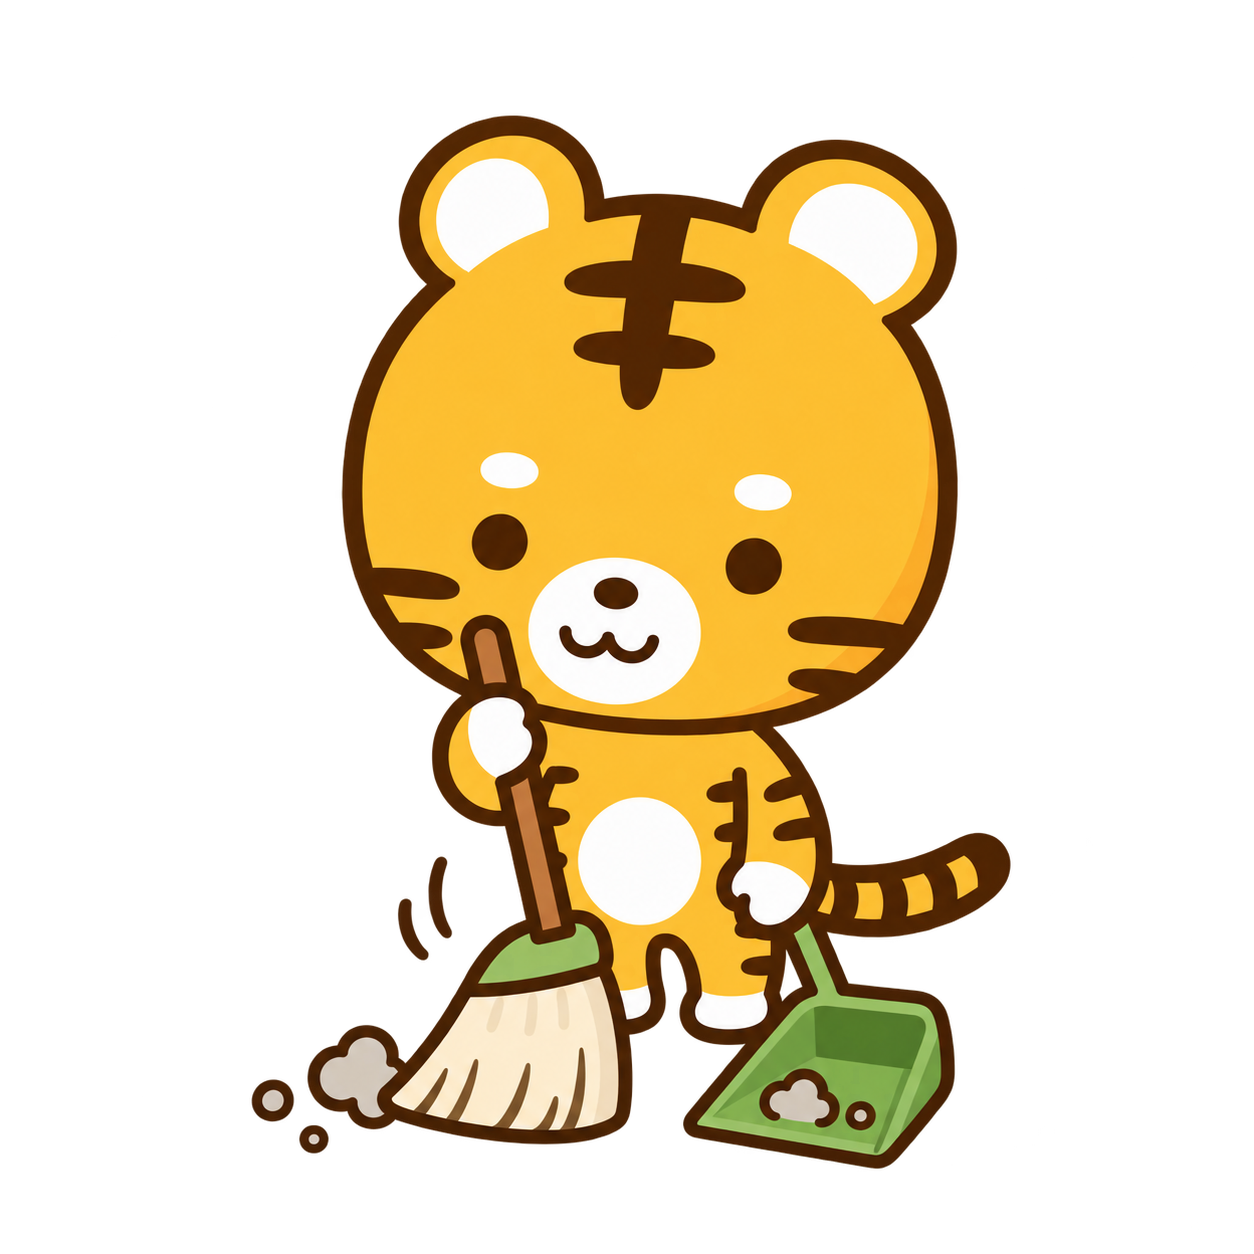
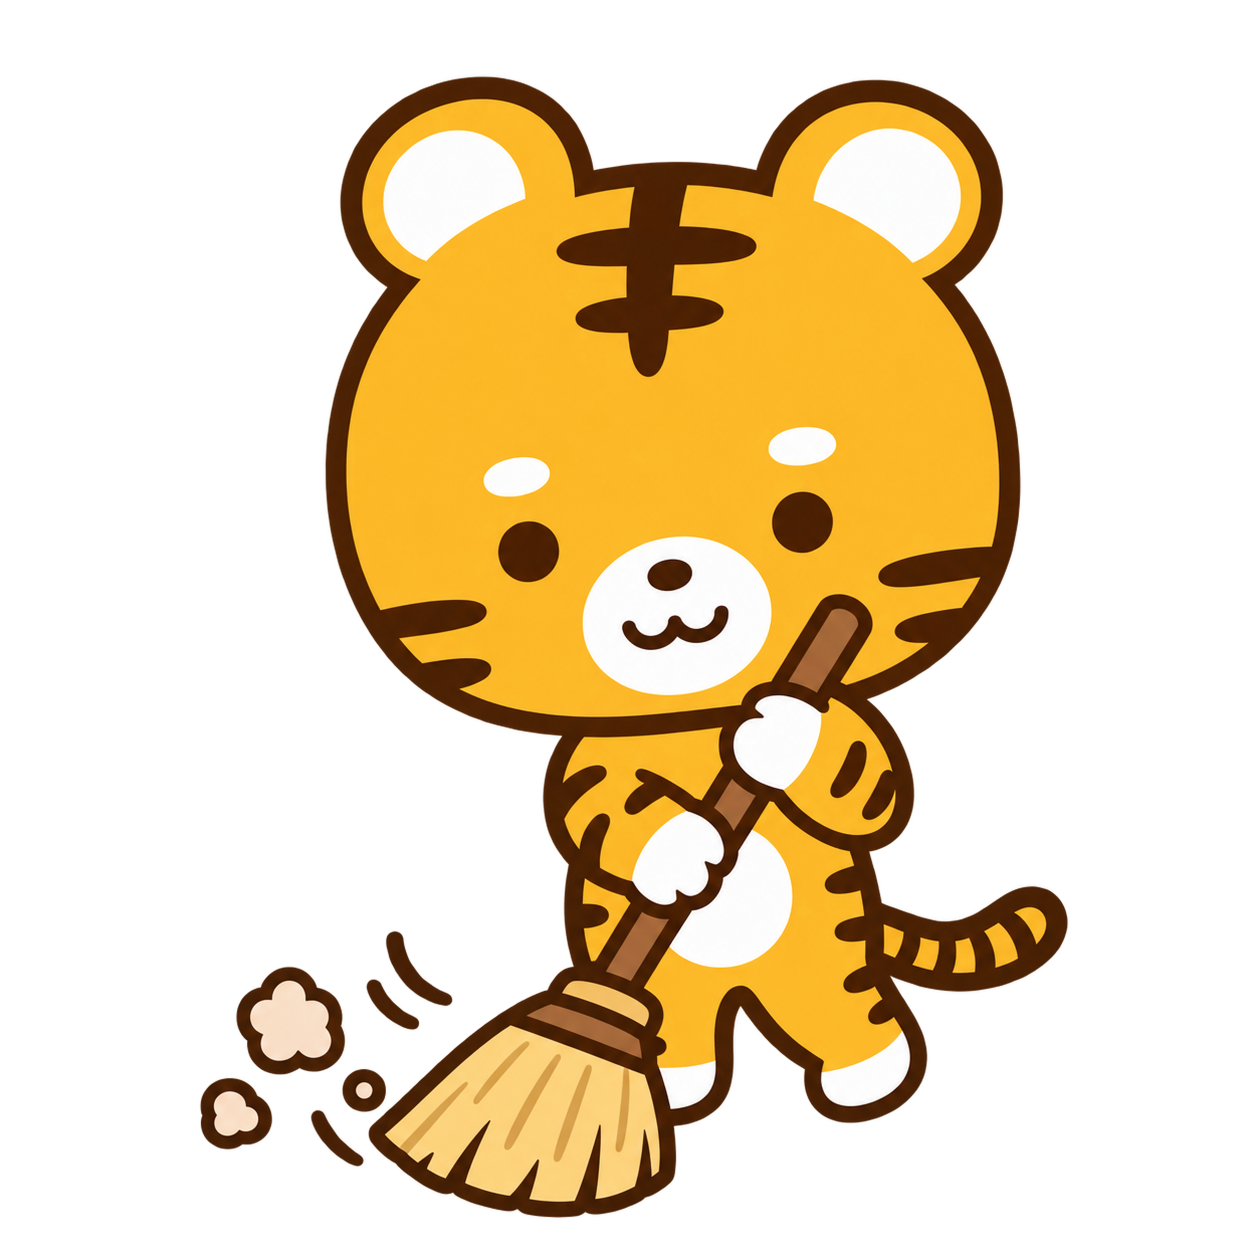
마스코트 업그레이드: 로딩 전후 왕복 모션 + 완료 칭찬 스티커
- 마스코트 9종 세트로 교체(cheer/sweep/mop/pickup/bin/wipe/spray/window/happy), 구 trash 제거
- 로딩: 4가지 청소 타입 중 랜덤 1개 선택 → 전(前)↔후(後) 2프레임 왕복(480ms) 청소 모션
- 완료 팝업: 만세+하트 칭찬 스티커(pop 등장 후 좌우 흔들 모션)
- index preload 정리

Changed region(s): [[0.1555, 0.0622, 0.8708, 0.9952]]

diff --git a/00-index.html b/00-index.html
@@ -64,20 +64,19 @@
     }
     @keyframes bob {
       0%, 100% { transform: translateY(0) rotate(-2deg); }
-      50% { transform: translateY(-12px) rotate(2deg); }
+      50% { transform: translateY(-10px) rotate(2deg); }
     }
-    .mascot {
+    .frame {
       position: absolute;
       inset: 0;
       width: 100%;
       height: 100%;
       object-fit: contain;
       opacity: 0;
-      transform: scale(.9);
-      transition: opacity .35s ease, transform .35s ease;
+      transition: opacity .16s ease;
       filter: drop-shadow(0 12px 18px rgba(17,31,60,.14));
     }
-    .mascot.active { opacity: 1; transform: scale(1); }
+    .frame.on { opacity: 1; }
     .status {
       display: inline-flex;
       align-items: center;
@@ -107,10 +106,8 @@
     <div class="mascot-wrap" aria-hidden="true">
       <div class="blob"></div>
       <div class="mascot-stage">
-        <img class="mascot active" src="./images/mascot-sweep.png" alt="">
-        <img class="mascot" src="./images/mascot-wipe.png" alt="">
-        <img class="mascot" src="./images/mascot-mop.png" alt="">
-        <img class="mascot" src="./images/mascot-trash.png" alt="">
+        <img class="frame" id="frameA" alt="">
+        <img class="frame" id="frameB" alt="">
       </div>
     </div>
     <div class="status">공정 랜덤으로 청소 역할을 섞는 중<span class="dots"></span></div>
@@ -138,14 +135,26 @@
     document.getElementById("title").textContent = `${room}호 청소분담 생성 중`;
     document.getElementById("dateText").textContent = `${displayDate(date)} 청소점검 기준`;
 
-    // 청소나섬 마스코트가 4가지 청소 동작을 번갈아 보여주며 역할을 섞습니다.
-    const mascots = document.querySelectorAll(".mascot");
-    let mIndex = 0;
+    // 청소나섬 로딩 모션: 4가지 청소 타입 중 하나를 랜덤으로 뽑아
+    // 그 타입의 '전' 프레임 ↔ '후' 프레임을 왔다갔다 반복(청소하는 동작).
+    const types = [
+      ["./images/mascot-sweep.png",  "./images/mascot-mop.png"],    // 바닥: 쓸기 ↔ 대걸레
+      ["./images/mascot-pickup.png", "./images/mascot-bin.png"],    // 쓰레기: 줍기 ↔ 버리기
+      ["./images/mascot-wipe.png",   "./images/mascot-spray.png"],  // 책상: 행주 ↔ 스프레이
+      ["./images/mascot-window.png", "./images/mascot-happy.png"]   // 유리: 창문 ↔ 신나게
+    ];
+    const pick = types[Math.floor(Math.random() * types.length)];
+    const fA = document.getElementById("frameA");
+    const fB = document.getElementById("frameB");
+    fA.src = pick[0];
+    fB.src = pick[1];
+    fA.classList.add("on");
+    let showA = true;
     window.setInterval(() => {
-      mascots[mIndex].classList.remove("active");
-      mIndex = (mIndex + 1) % mascots.length;
-      mascots[mIndex].classList.add("active");
-    }, 620);
+      showA = !showA;
+      fA.classList.toggle("on", showA);
+      fB.classList.toggle("on", !showA);
+    }, 480);
 
     window.setTimeout(() => {
       const query = new URLSearchParams({ room, date, seat });

diff --git a/01-index.html b/01-index.html
@@ -418,18 +418,24 @@
       place-items: center;
     }
     .complete-pop {
-      width: 104px;
-      height: 104px;
+      width: 112px;
+      height: 112px;
       margin: 0 auto 10px;
       display: grid;
       place-items: center;
-      animation: pop .5s ease-out both;
+      animation: pop .5s cubic-bezier(.2,1.3,.4,1) both;
     }
     .complete-pop img {
-      width: 104px;
-      height: 104px;
+      width: 112px;
+      height: 112px;
       object-fit: contain;
       filter: drop-shadow(0 8px 14px rgba(17,31,60,.14));
+      transform-origin: center bottom;
+      animation: cheer 1.1s ease-in-out .5s infinite;
+    }
+    @keyframes cheer {
+      0%, 100% { transform: rotate(-5deg) scale(1); }
+      50% { transform: rotate(5deg) scale(1.06); }
     }
     @keyframes pop {
       0% { transform: scale(.65); opacity: 0; }
@@ -742,7 +748,7 @@
 
   <div class="modal" id="signModal" role="dialog" aria-modal="true" aria-labelledby="signTitle">
     <div class="sheet sign-sheet">
-      <div class="complete-pop" aria-hidden="true"><img src="./images/mascot-wipe.png" alt=""></div>
+      <div class="complete-pop" aria-hidden="true"><img src="./images/mascot-cheer.png" alt=""></div>
       <h2 id="signTitle">청소 완료</h2>
       <div class="sign-image" id="signImage"></div>
       <div class="sign-message" id="signMessage"></div>

diff --git a/index.html b/index.html
@@ -5,9 +5,6 @@
   <meta name="viewport" content="width=device-width, initial-scale=1">
   <title>청소분담실</title>
   <link rel="preload" as="image" href="./images/mascot-sweep.png">
-  <link rel="preload" as="image" href="./images/mascot-wipe.png">
-  <link rel="preload" as="image" href="./images/mascot-mop.png">
-  <link rel="preload" as="image" href="./images/mascot-trash.png">
   <style>
     :root {
       --blue: #004EA2;
